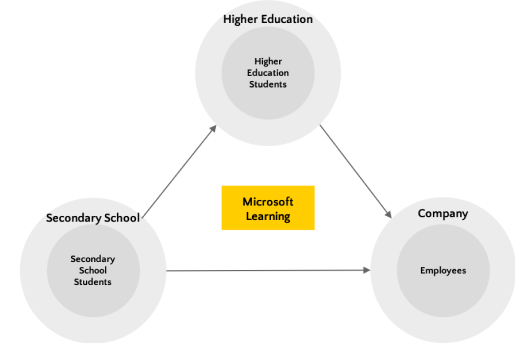
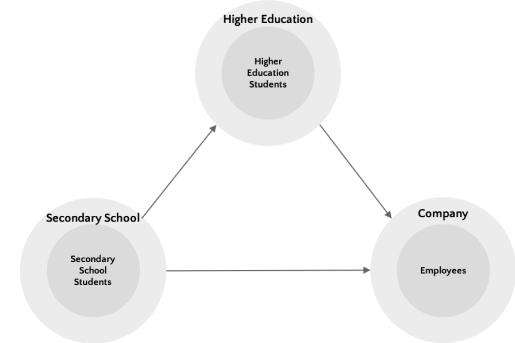
scrubbing client references

Changed region(s): [[0.4039, 0.5248, 0.6214, 0.6706]]

diff --git a/src/app/pre-test_pages/development/development.component.html b/src/app/pre-test_pages/development/development.component.html
@@ -6,7 +6,7 @@
 		<div class="subsection">
 			<h2>About CritAssess</h2>
 			<p>
-				CritAssess represents the culmination of six months of extensive research into how critical thinking is perceived and evaluated in academic and professional contexts. The synthesis of this research lays the foundation for a rigorously designed and tested assessment consisting of closed-form questions for maximum scalability. The high-fidelity working prototype of this assessment showcases one of three 20-minute modules that can be taken altogether for an hour-long certification; or individually, for segmented content toward skill development. CritAssess measures critical thinking skills across 11 knowledge components (Aleven & Koedinger 2013), which can be thought of as sub-skills, to target necessary competencies for top-performing computer science employees both during the hiring process and on-the job. These requirements include planning & prioritization, weighing options, and root cause analysis. Learners receive feedback on their three top-performing skills as well as the three with most room for improvement. If certified, learners can display their certification on LinkedIn; they also may choose to export their learner report and include it with a job application. Tech recruiters can seek this certification as part of job-seekers profiles.
+				CritAssess represents the culmination of six months of extensive research into how critical thinking is perceived and evaluated in academic and professional contexts. The synthesis of this research lays the foundation for a rigorously designed and tested assessment consisting of closed-form questions for maximum scalability. The high-fidelity working prototype of this assessment showcases one of three 20-minute modules that can be taken altogether for an hour-long certification; or individually, for segmented content toward skill development. CritAssess measures critical thinking skills across 11 knowledge components (Aleven & Koedinger 2013), which can be thought of as sub-skills, to target necessary competencies for top-performing computer science employees both during the hiring process and on-the job. These requirements include planning & prioritization, weighing options, and root cause analysis. Learners receive feedback on their three top-performing skills as well as the three with most room for improvement. If certified, learners can share their certificate or learner report with potential employers. Tech recruiters can seek this certification as part of job-seekers profiles.
 			</p>
 		</div> <!-- End About CritAssess subsection -->
 	</div> <!-- End Overview section -->
@@ -42,7 +42,7 @@
 				When learners log into the assessment page of CritAssess, they would find that most questions are formatted in a choose-then-explain paradigm, where test-takers must first make a decision based on given information, and then provide reason(s) justifying their answer. All of our tasks are in the form of either multiple choice or choose-all-that-apply in which the answer is fixed and automatically graded. Each question is assigned the same weight toward the final grading. Some question items are rewarded partial credit if there is a reasonable intention behind the selection; yet not the best choice. This practice mirrors a similar approach used currently in many critical thinking tests.
 			</p>
 			<p>
-				In order to evaluate learners’ ability to make well-reasoned decisions, one must analyze both the choices they make, and the reasons underlying those choices. The use of separate questions to evaluate both the conclusions learners arrive at, and the methods by which they get there, helps to isolate the skills being used and improve the test’s validity. Moreover, Microsoft’s learning platforms are used by learners from all parts of the world; therefore, grading at scale is a crucial feature Closed-form assessment requires the least human involvement as it can be done automatically.
+				In order to evaluate learners’ ability to make well-reasoned decisions, one must analyze both the choices they make, and the reasons underlying those choices. The use of separate questions to evaluate both the conclusions learners arrive at, and the methods by which they get there, helps to isolate the skills being used and improve the test’s validity. Closed-form assessment facilitates automated grading at scale, making CritAssess suitable for global auidences.
 			</p>
 		</div> <!-- End Two-Part questions -->
 

diff --git a/src/app/pre-test_pages/research/research.component.html b/src/app/pre-test_pages/research/research.component.html
@@ -59,7 +59,7 @@
 				Our ideation was informed by research methods including literature review, interviews, competitive analysis, and affinity diagramming. Our research was guided by three components:
 			</p>
 			<ol>
-				<li>Understanding non-technical skills and employability</li>
+				<li>Understanding non-technical skills and employment</li>
 				<li>Understanding critical thinking in secondary school</li>
 				<li>Understanding critical thinking in computer science related work</li>
 			</ol>
@@ -120,7 +120,7 @@
 		<div class="subsection">
 			<h2>Insights</h2>
 			<!-- Insight 1 -->
-			<strong>Insight 1: Critical thinking is vital to employability in computer science careers</strong>
+			<strong>Insight 1: Critical thinking is vital to employment in computer science careers</strong>
 			<p>
 				For current computer science jobs, employers explicitly expressed that they are looking for critical thinking skills during interviews. Some employers treat critical thinking skills as a differentiator between candidates who have similar technically proficiency, while others view critical thinking as a prerequisite that helps filter candidates at the earliest stages. Yet, all were unanimous in agreeing that critical thinking skills are vital to daily work and long-term professional growth for employees in computer science fields.
 			</p>
